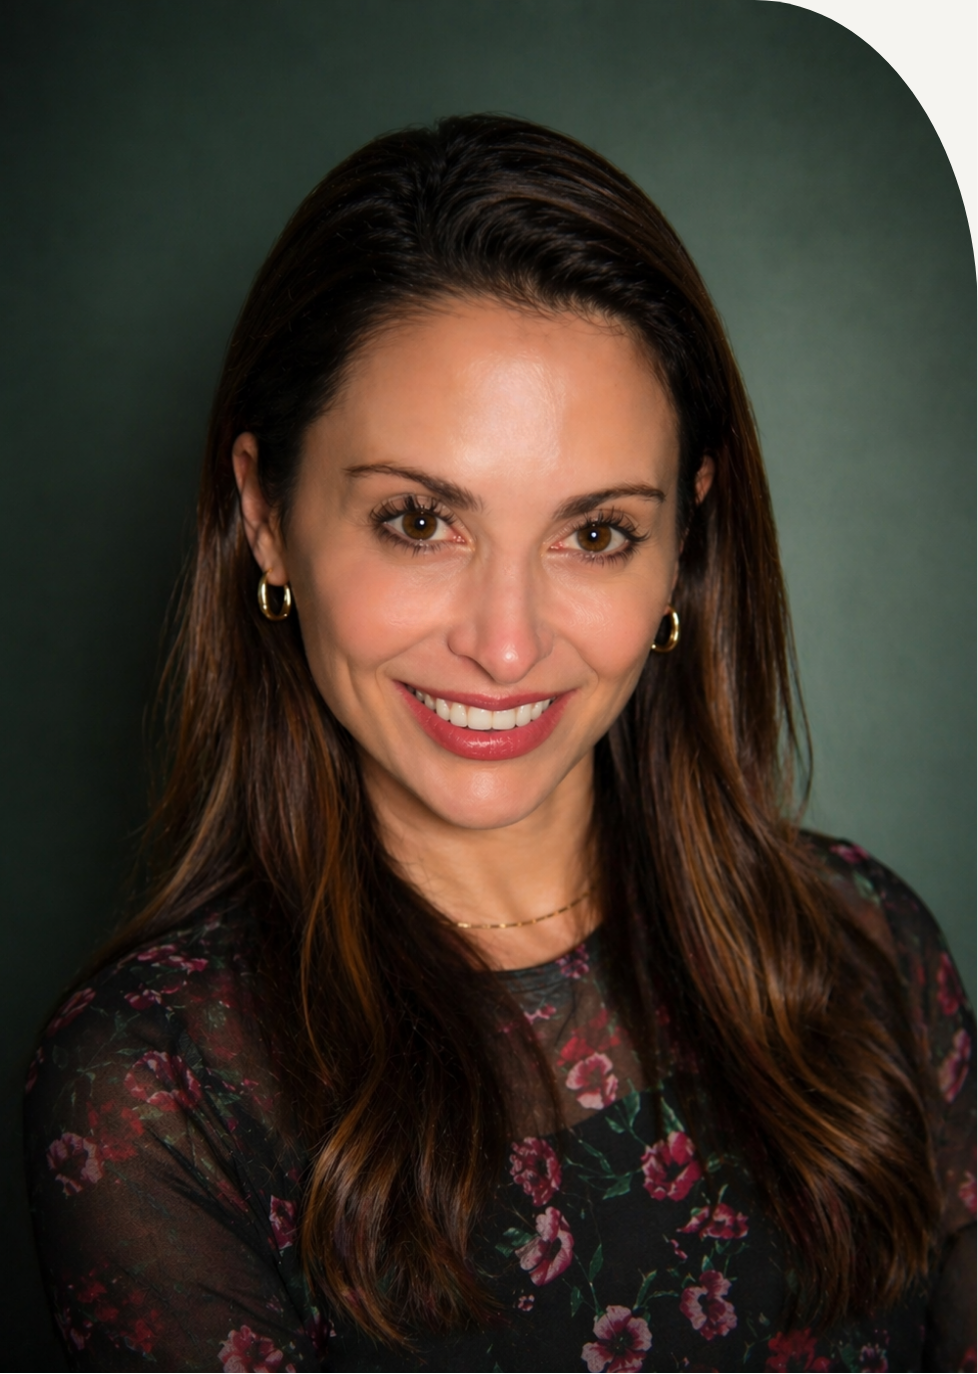
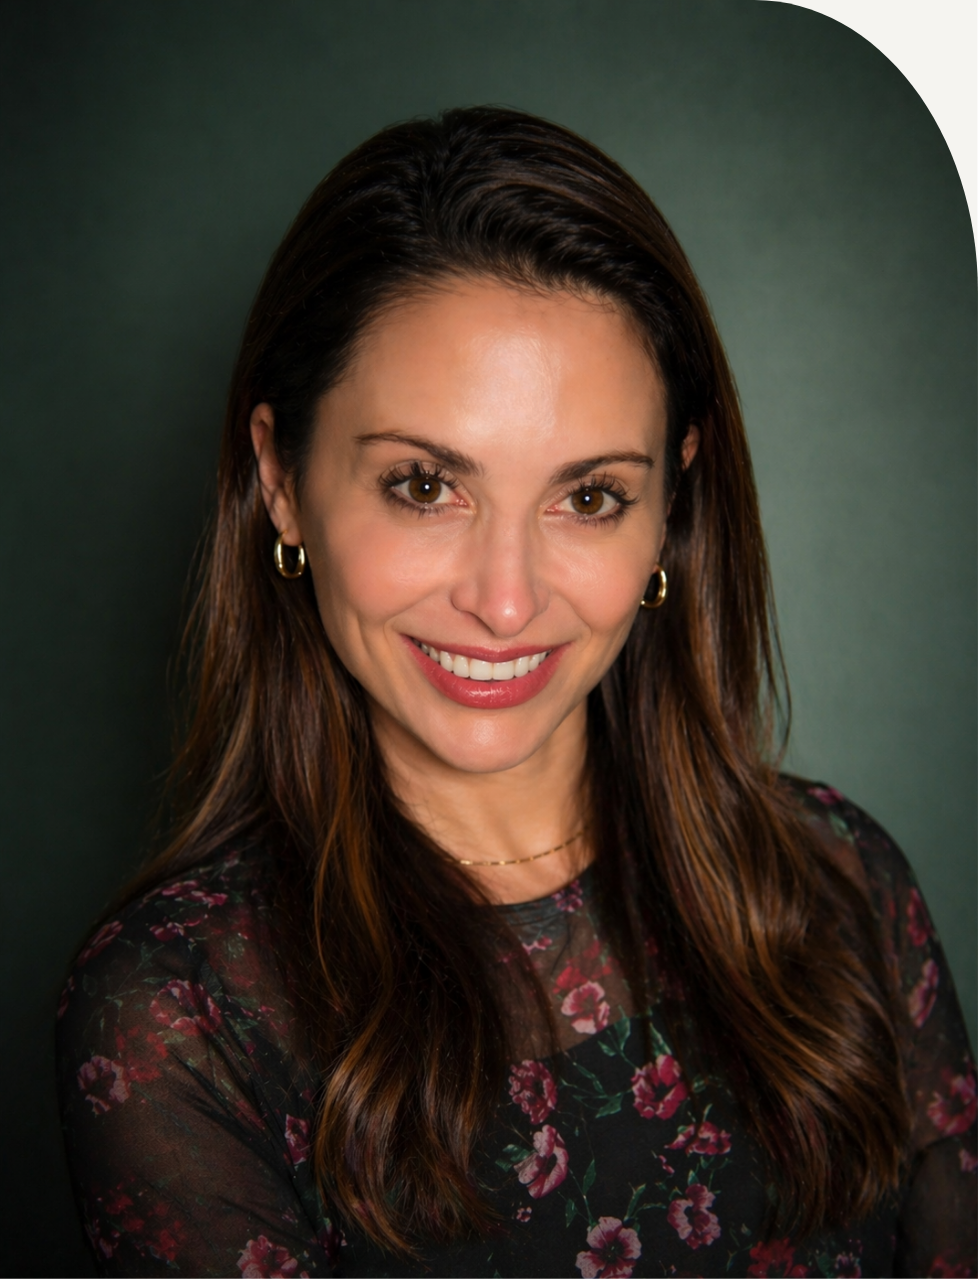
.

diff --git a/index.html b/index.html
@@ -103,10 +103,11 @@
       letter-spacing: -0.03em;
       opacity: 0;
       animation: fadeUp 0.9s ease forwards 0.4s;
+      color: var(--gray);
     }
     .hero-title em {
       font-style: italic;
-      color: var(--color);
+      color: var(--black);
     }
 
     .hero-right {
